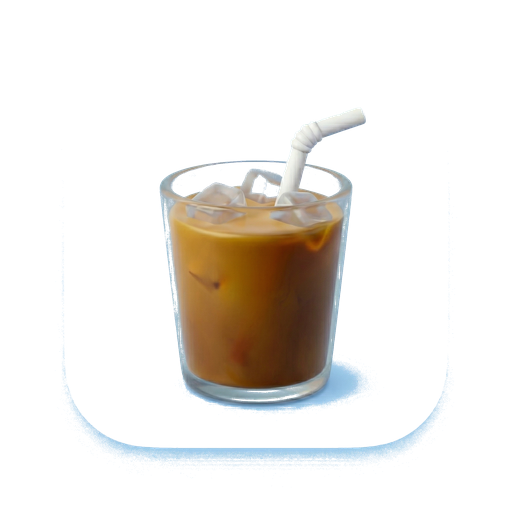
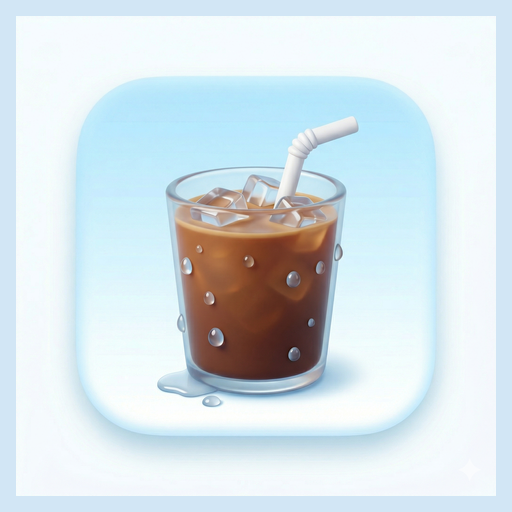
fix: 하단 공백 축소 + PWA 아이콘 꽉 채운 하늘색 배경으로 교체

diff --git a/src/app/globals.css b/src/app/globals.css
@@ -395,15 +395,14 @@ body {
   align-items: center;
   width: 100%;
   max-width: 860px;
-  padding-bottom: 0;
-  margin-bottom: env(safe-area-inset-bottom);
+  padding-bottom: env(safe-area-inset-bottom);
 }
 .footer-credit-divider {
   width: 100%;
   height: 1px;
   background: var(--border);
-  margin-top: 8px;
-  margin-bottom: 5px;
+  margin-top: 6px;
+  margin-bottom: 3px;
 }
 .footer-credit-text {
   font-size: 10px;
@@ -411,6 +410,7 @@ body {
   opacity: 0.55;
   font-family: 'DM Mono', monospace;
   letter-spacing: 0.05em;
+  padding-bottom: 2px;
 }
 .register-btn {
   padding: 8px 22px;
